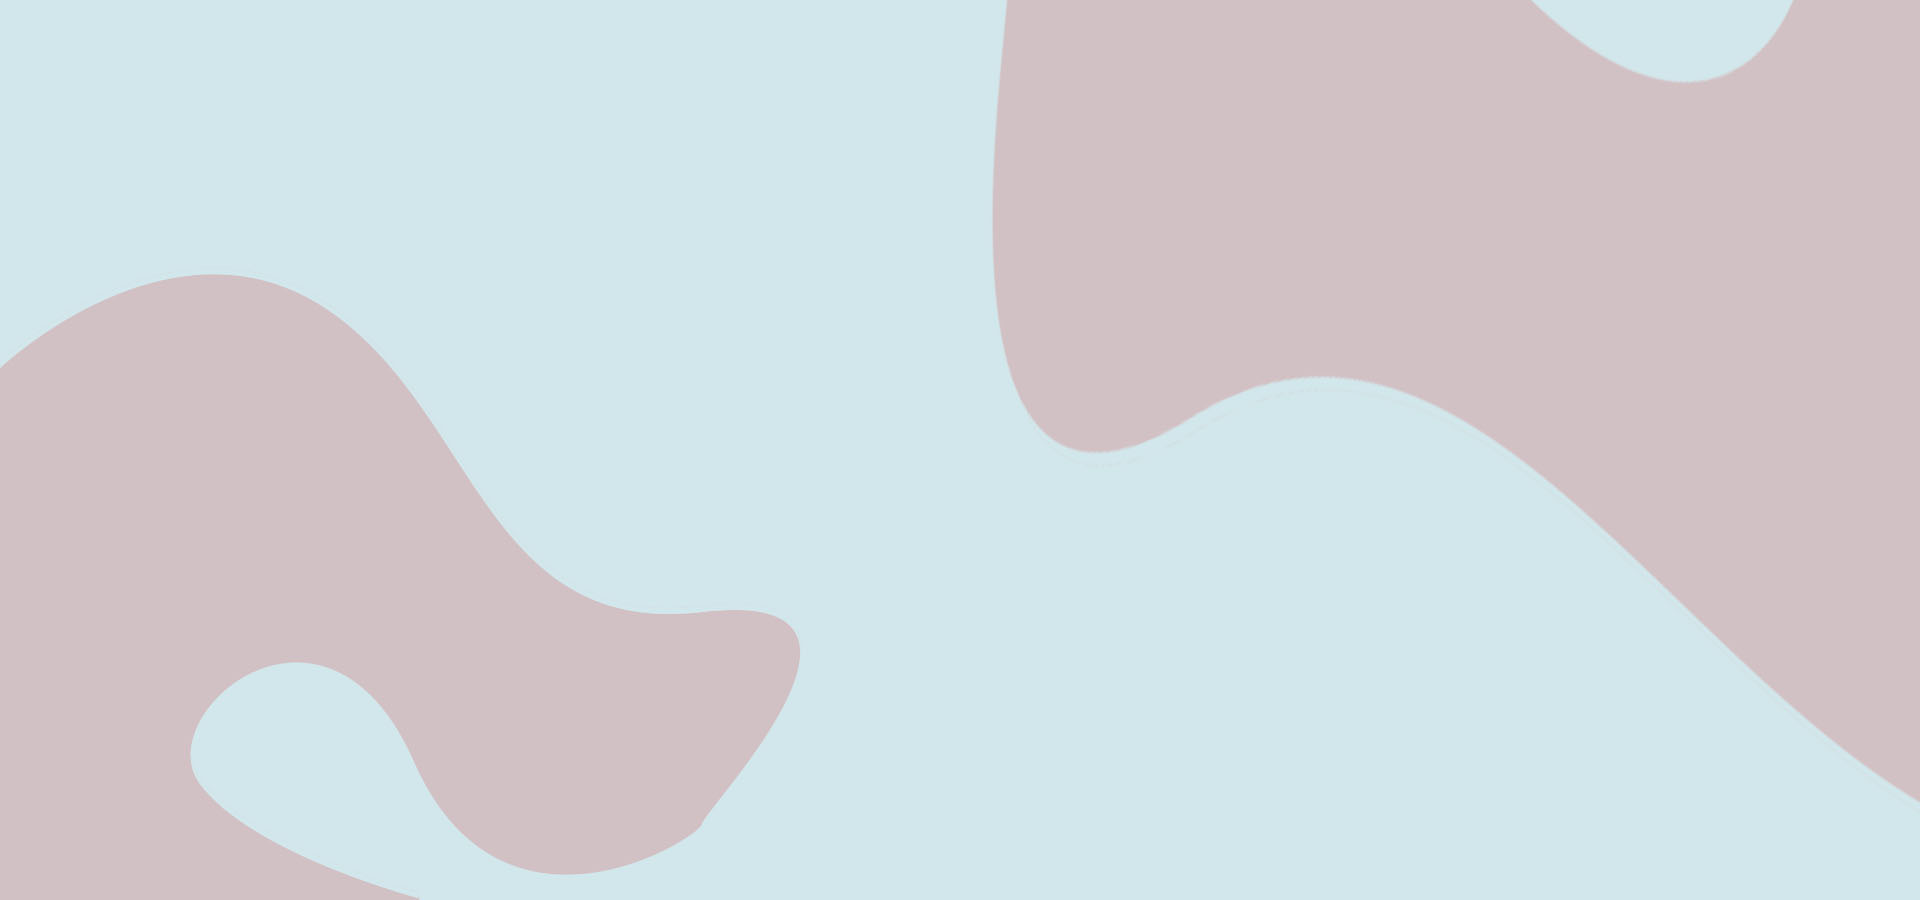
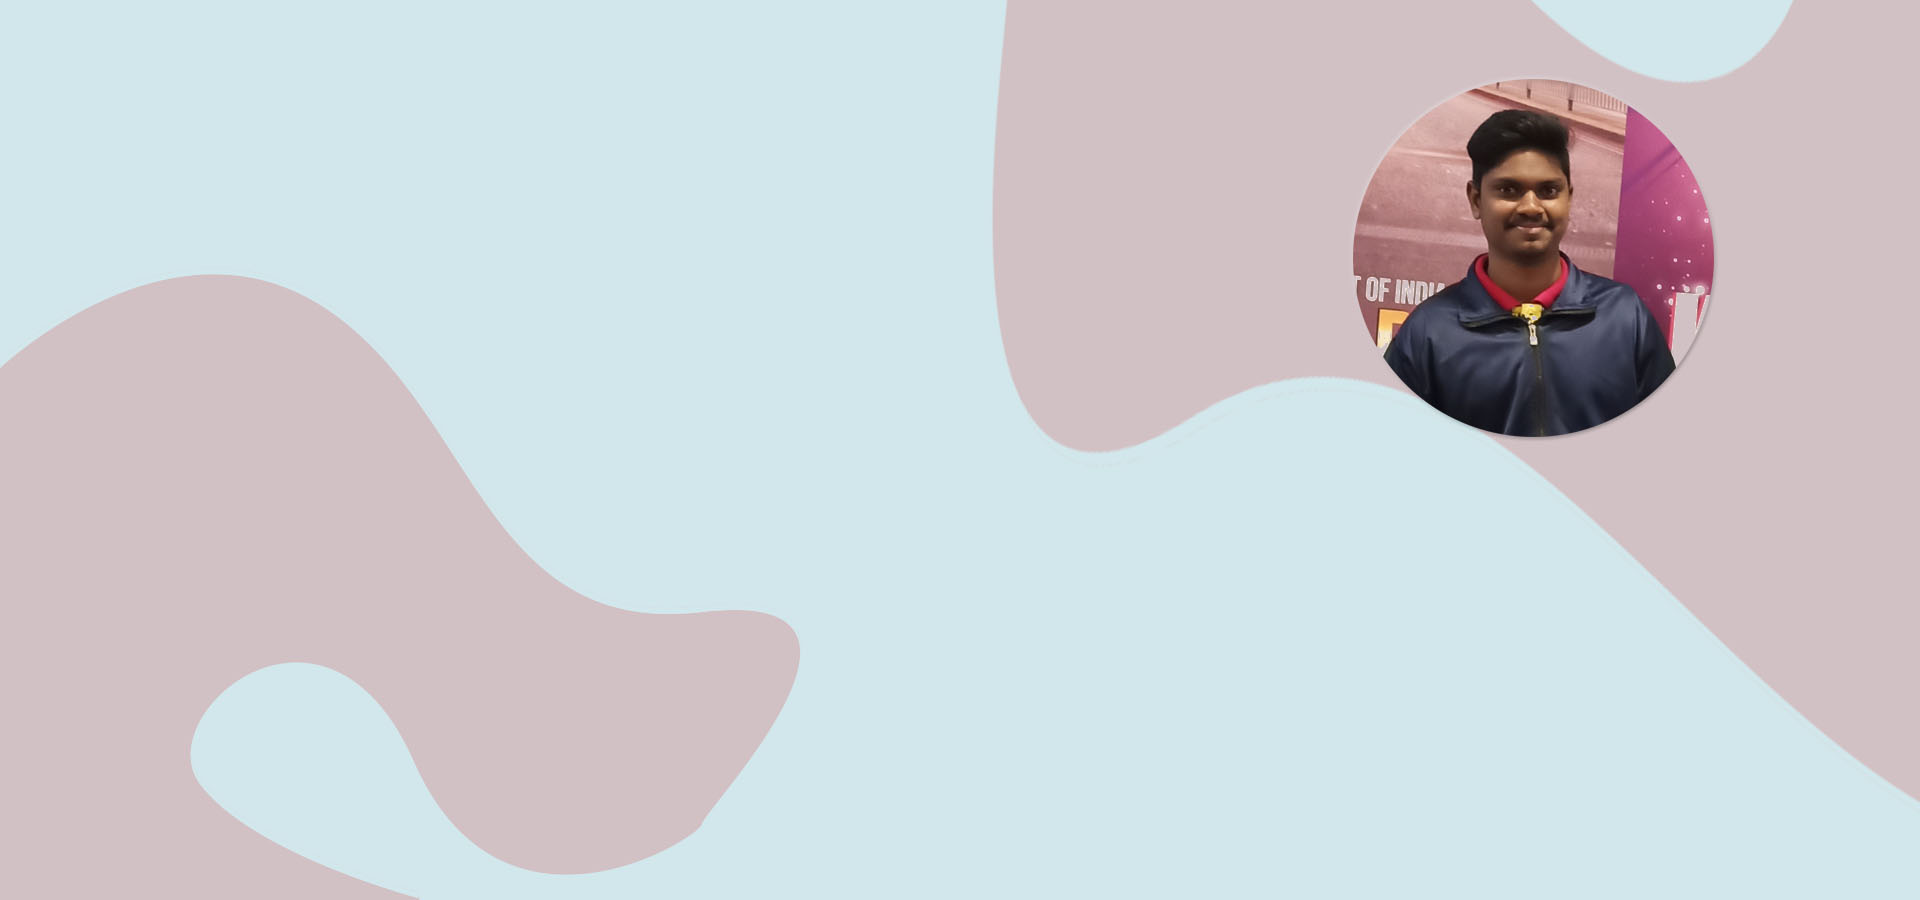
UP

Changed region(s): [[0.6875, 0.0622, 0.9062, 0.4978]]

diff --git a/index.html b/index.html
@@ -97,7 +97,9 @@
                             <div class="col-xl-6 col-lg-6 col-md-8">
                                 <div class="hero__caption">
                                     <span data-animation="fadeInUp" data-delay=".4s">Get Every Single Solutions.</span>
-                                    <h1 data-animation="fadeInUp" data-delay=".6s">Web and Graphic designer,</h1>
+                                    <h3 data-animation="fadeInUp" data-delay=".6s"> WEB,</h3>
+                                    <h1 data-animation="fadeInUp" data-delay=".6s"> UI & UX DEVLOPER,</h1>
+                                    
                                     <h1 data-animation="fadeInUp" data-delay=".6s">Jennay Sai Kiran</h1>
                                     
                                     <!-- Hero-btn -->
@@ -224,7 +226,7 @@
                                     <div class="nav nav-tabs" id="nav-tab" role="tablist">
                                         <a class="nav-item nav-link active" id="nav-home-tab" data-toggle="tab" href="#nav-home" role="tab" aria-controls="nav-home" aria-selected="false"> All</a>
                                         <a class="nav-item nav-link" id="nav-profile-tab" data-toggle="tab" href="#nav-profile" role="tab" aria-controls="nav-profile" aria-selected="false"> Branding</a>
-                                        <a class="nav-item nav-link" id="nav-contact-tab" data-toggle="tab" href="#nav-contact" role="tab" aria-controls="nav-contact" aria-selected="false">Logo</a>
+                                        <a class="nav-item nav-link" id="nav-contact-tab" data-toggle="tab" href="#nav-c   ontact" role="tab" aria-controls="nav-contact" aria-selected="false">Logo</a>
                                         <a class="nav-item nav-link" id="nav-last-tab" data-toggle="tab" href="#nav-last" role="tab" aria-controls="nav-contact" aria-selected="false">UI/UX </a>
                                         <a class="nav-item nav-link" id="nav-technology" data-toggle="tab" href="#nav-techno" role="tab" aria-controls="nav-contact" aria-selected="false">Web Design</a>
                                     </div>

diff --git a/about.html b/about.html
@@ -109,12 +109,44 @@
         </div>
         <!-- Hero End -->
         <!-- About Me Start -->
+
+ <div class="container">
+     <div class=" row justify-content-between align-items-center">
+      <div class="col-lg-12 col-md-12">
+        <h3>SKILLS</h3>
+        <h2> TECHNOLOGYS</h2>
+        <li> <p>HTML 5</p> </li>
+        <li><p> CSS 3 </p></li>
+        <li><p> SASS </p></li>
+        <li><p>  BOOTSTRAP 5 </p></li>
+        <li><p> JAVASCRIPT </p></li>
+        <li><p> ANGULAR JS </p></li>
+        <li><p> NODE JS </p></li>
+        <li><p> REACT JS </p></li>
+        <li><p>MY SQL </p></li>
+
+        <h3>SOFTWARES</h3>
+        <li><p> PHOTOSHOP</p></li>
+        <li><p> ADOBE XD</p></li>
+        <li><p> FIGMA</p></li>
+        <li><p> ADOBE DREAMWAVER</p></li>
+        <li><p> ADOBE ILLUSTRATOR </p></li>
+        <li><p> ADOBE CORAL DRAW</p></li>
+        <li><p>ADOBE INDESIGN</p></li>
+        <li><p> ADOBE LIGHT ROOM</p></li>
+        <li><p>ADOBE BRIDGE  CS6</p></li>
+       
+      </div>
+     </div>
+
+ </div>
+    
         <div class="about-me pb-top">
             <div class="container">
                 <div class="row justify-content-between align-items-center">
                     <div class="col-lg-6 col-md-6">
                         <div class="about-me-img mb-30">
-                            <img src="#" alt="">
+                            <img src="imj" alt="">
                         </div>
                     </div>
                     <div class="col-lg-5 col-md-6">
